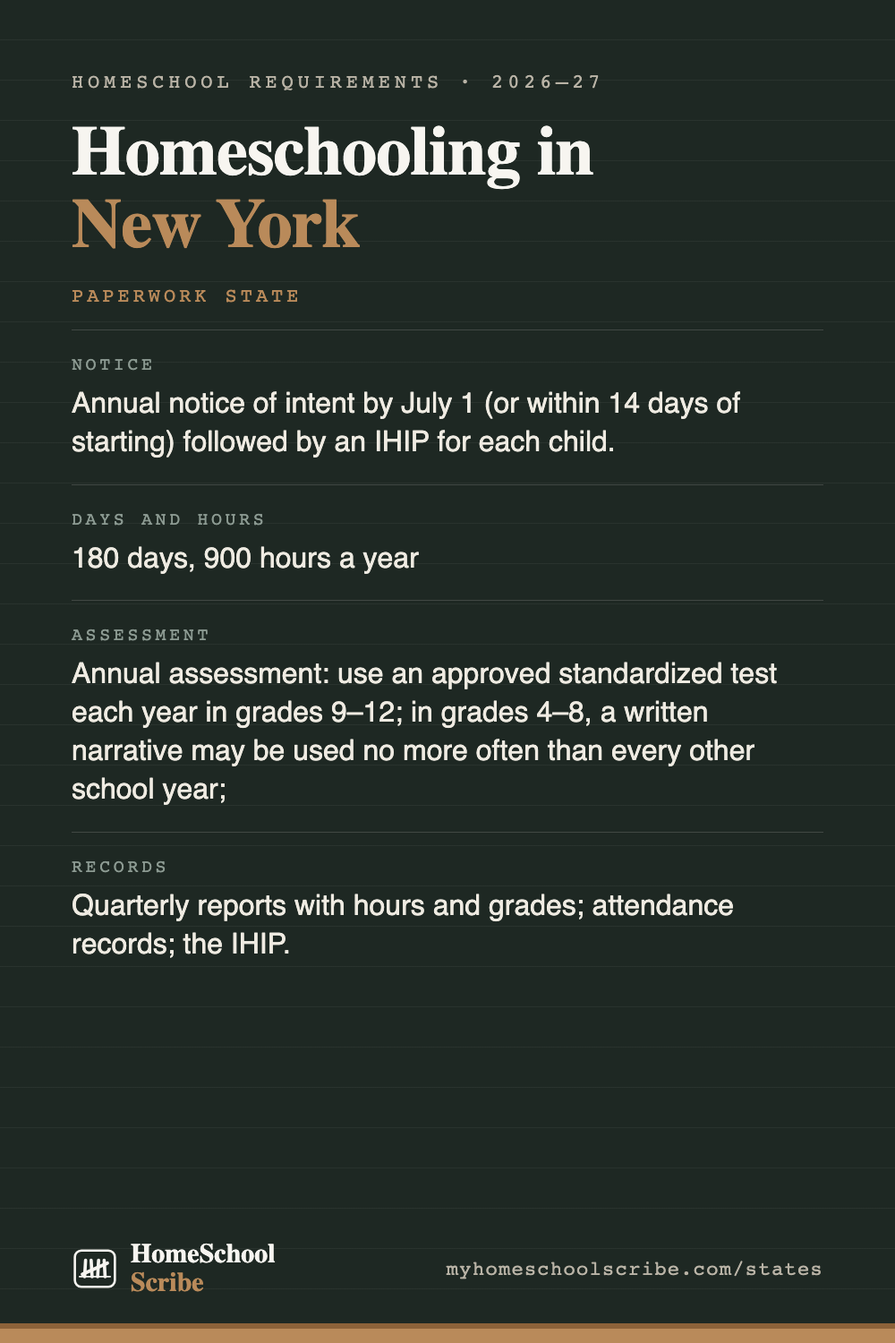
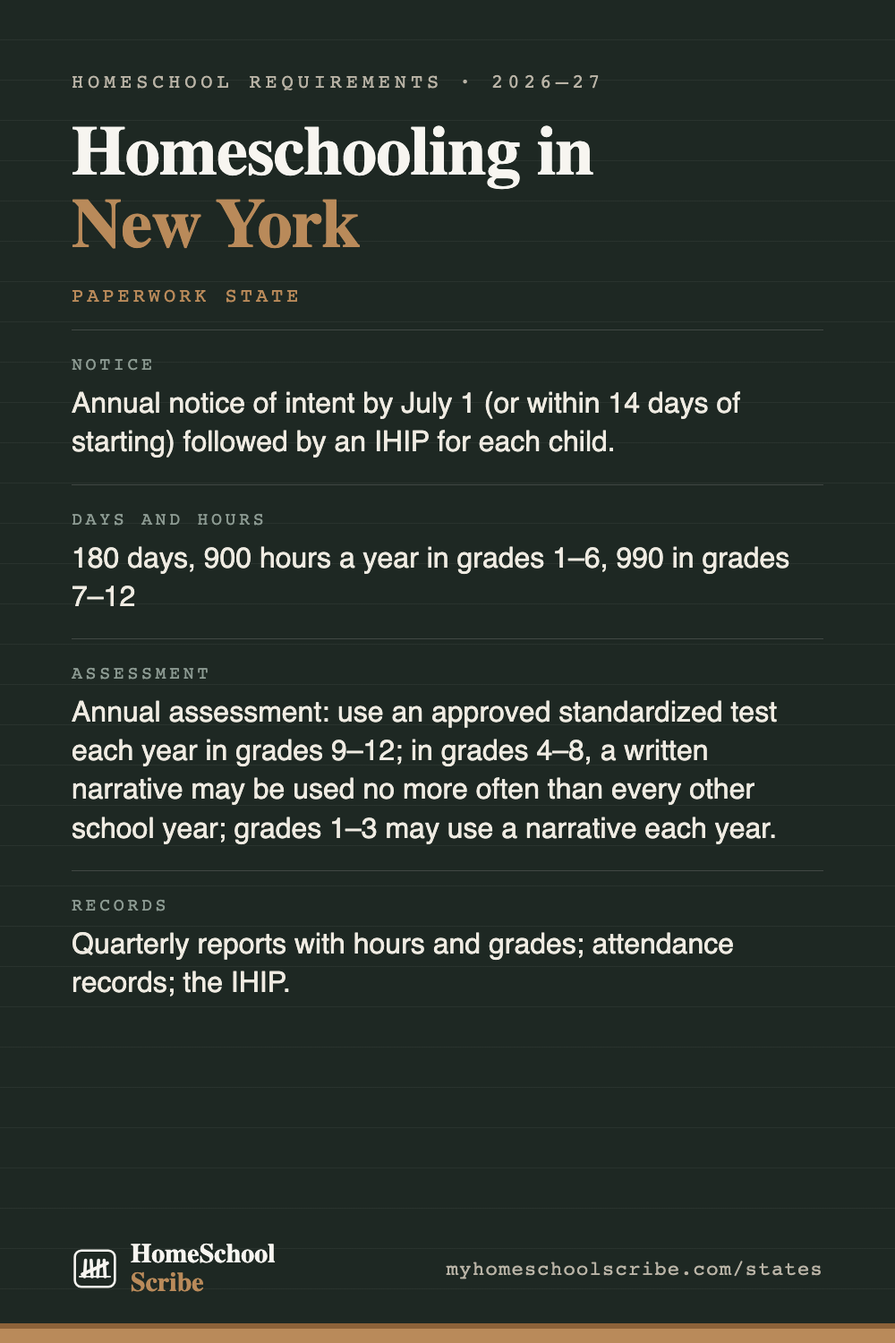
State pins and guides: New York's assessment keeps all three grade bands, and New York and Pennsylvania show hours by grade band

Changed region(s): [[0.062, 0.4293, 0.868, 0.736], [0.465, 0.3987, 0.899, 0.4293]]

diff --git a/states/new-york.html b/states/new-york.html
@@ -22,7 +22,7 @@
 <meta name="p:domain_verify" content="01aed3c2afd3f5c467194a78cc413408"/>
 <meta name="google-site-verification" content="uyakyGaXcTMdCrQNfzRR2PB7ibszg_JJ2bjnA3vRAR0" />
 <link rel="stylesheet" href="/assets/site.css">
-<script type="application/ld+json">{"@context": "https://schema.org", "@type": "FAQPage", "mainEntity": [{"@type": "Question", "name": "Do I have to notify anyone to homeschool in New York?", "acceptedAnswer": {"@type": "Answer", "text": "Annual notice of intent by July 1 (or within 14 days of starting) followed by an IHIP for each child."}}, {"@type": "Question", "name": "How many days or hours does New York require?", "acceptedAnswer": {"@type": "Answer", "text": "180 days, 900 hours a year"}}, {"@type": "Question", "name": "Is testing or an evaluation required in New York?", "acceptedAnswer": {"@type": "Answer", "text": "Annual assessment: use an approved standardized test each year in grades 9\u201312; in grades 4\u20138, a written narrative may be used no more often than every other school year; grades 1\u20133 may use a narrative each year. Choose a New York-certified teacher, home instruction peer review panel, or other person with the superintendent\u2019s consent to write the narrative after interviewing the child and reviewing a portfolio. Home test administration also needs consent to the administrator. A test score is adequate if the composite is above the 33rd percentile or shows one academic year of growth against a test from the prior school year or later. An inadequate score or a narrative finding inadequate progress leads to probation and a plan to address the gaps. See 8 NYCRR 100.10(h)\u2013(i) for approved tests and administration options."}}, {"@type": "Question", "name": "What records should a New York homeschool keep?", "acceptedAnswer": {"@type": "Answer", "text": "Quarterly reports with hours and grades; attendance records; the IHIP."}}]}</script>
+<script type="application/ld+json">{"@context": "https://schema.org", "@type": "FAQPage", "mainEntity": [{"@type": "Question", "name": "Do I have to notify anyone to homeschool in New York?", "acceptedAnswer": {"@type": "Answer", "text": "Annual notice of intent by July 1 (or within 14 days of starting) followed by an IHIP for each child."}}, {"@type": "Question", "name": "How many days or hours does New York require?", "acceptedAnswer": {"@type": "Answer", "text": "180 days, 900 hours a year in grades 1\u20136, 990 in grades 7\u201312"}}, {"@type": "Question", "name": "Is testing or an evaluation required in New York?", "acceptedAnswer": {"@type": "Answer", "text": "Annual assessment: use an approved standardized test each year in grades 9\u201312; in grades 4\u20138, a written narrative may be used no more often than every other school year; grades 1\u20133 may use a narrative each year. Choose a New York-certified teacher, home instruction peer review panel, or other person with the superintendent\u2019s consent to write the narrative after interviewing the child and reviewing a portfolio. Home test administration also needs consent to the administrator. A test score is adequate if the composite is above the 33rd percentile or shows one academic year of growth against a test from the prior school year or later. An inadequate score or a narrative finding inadequate progress leads to probation and a plan to address the gaps. See 8 NYCRR 100.10(h)\u2013(i) for approved tests and administration options."}}, {"@type": "Question", "name": "What records should a New York homeschool keep?", "acceptedAnswer": {"@type": "Answer", "text": "Quarterly reports with hours and grades; attendance records; the IHIP."}}]}</script>
 </head>
 <body><header class="site-header">
   <div class="wrap">
@@ -44,7 +44,7 @@
     <p class="doc-lede">Submit an annual notice and an Individualized Home Instruction Plan (IHIP), file quarterly reports, log 900/990 hours over 180 days, and submit an annual assessment.</p>
 
     <h2>What New York asks</h2>
-    <div class="table-wrap"><table class="req"><tr><th scope="row">Notice</th><td>Annual notice of intent by July 1 (or within 14 days of starting) followed by an IHIP for each child.</td></tr><tr><th scope="row">Days and hours</th><td>180 days, 900 hours a year</td></tr><tr><th scope="row">Subjects</th><td>Language Arts (including reading, writing and spelling in grades 1–6), Math, Science, Social Studies (including geography and U.S. history), Health, Physical Education, Music, Visual Arts, U.S. and New York History and Constitutions (at least once in grades 1–8), Bilingual Education / English as a Second Language (grades 1–6, where needed), Practical Arts (grades 7–8), Library Skills (grades 7–8), Participation in Government (grades 9–12), Economics (grades 9–12), Electives (grades 9–12), Patriotism &amp; Citizenship (K–12), Fire and Arson Prevention &amp; Safety (K–12), Alcohol, Drug &amp; Tobacco Misuse Prevention (K–12), Highway, Traffic &amp; Bicycle Safety (K–12)</td></tr><tr><th scope="row">Assessment</th><td>Annual assessment: use an approved standardized test each year in grades 9–12; in grades 4–8, a written narrative may be used no more often than every other school year; grades 1–3 may use a narrative each year. Choose a New York-certified teacher, home instruction peer review panel, or other person with the superintendent’s consent to write the narrative after interviewing the child and reviewing a portfolio. Home test administration also needs consent to the administrator. A test score is adequate if the composite is above the 33rd percentile or shows one academic year of growth against a test from the prior school year or later. An inadequate score or a narrative finding inadequate progress leads to probation and a plan to address the gaps. See 8 NYCRR 100.10(h)–(i) for approved tests and administration options.</td></tr><tr><th scope="row">Records to keep</th><td>Quarterly reports with hours and grades; attendance records; the IHIP.</td></tr><tr><th scope="row">Parent qualification</th><td>None.</td></tr><tr><th scope="row">Worth knowing</th><td>900 hours for grades 1–6, 990 hours for grades 7–12 (each child’s own number is set at setup). Quarterly reports are due on the schedule set in your IHIP; one IHIP is filed per child, and the annual assessment is filed with the fourth report. Required subject units are totals across each grade band, not annual totals: 8 NYCRR 100.10 sets different lists for grades 1–6, 7–8, and 9–12. Across grades 7–8: 2 units each of English, history and geography, science, and math; 0.5 unit each of art and music; regular PE, health, practical arts, and library skills. Across grades 9–12: English 4; social studies 4 (including American history 1, participation in government 0.5, economics 0.5); math 2; science 2; art and/or music 1; health 0.5; PE 2; electives 3. One unit is 6,480 minutes of instruction. See 8 NYCRR 100.10(e) for the full grade-by-grade requirements.</td></tr></table></div>
+    <div class="table-wrap"><table class="req"><tr><th scope="row">Notice</th><td>Annual notice of intent by July 1 (or within 14 days of starting) followed by an IHIP for each child.</td></tr><tr><th scope="row">Days and hours</th><td>180 days, 900 hours a year in grades 1–6, 990 in grades 7–12</td></tr><tr><th scope="row">Subjects</th><td>Language Arts (including reading, writing and spelling in grades 1–6), Math, Science, Social Studies (including geography and U.S. history), Health, Physical Education, Music, Visual Arts, U.S. and New York History and Constitutions (at least once in grades 1–8), Bilingual Education / English as a Second Language (grades 1–6, where needed), Practical Arts (grades 7–8), Library Skills (grades 7–8), Participation in Government (grades 9–12), Economics (grades 9–12), Electives (grades 9–12), Patriotism &amp; Citizenship (K–12), Fire and Arson Prevention &amp; Safety (K–12), Alcohol, Drug &amp; Tobacco Misuse Prevention (K–12), Highway, Traffic &amp; Bicycle Safety (K–12)</td></tr><tr><th scope="row">Assessment</th><td>Annual assessment: use an approved standardized test each year in grades 9–12; in grades 4–8, a written narrative may be used no more often than every other school year; grades 1–3 may use a narrative each year. Choose a New York-certified teacher, home instruction peer review panel, or other person with the superintendent’s consent to write the narrative after interviewing the child and reviewing a portfolio. Home test administration also needs consent to the administrator. A test score is adequate if the composite is above the 33rd percentile or shows one academic year of growth against a test from the prior school year or later. An inadequate score or a narrative finding inadequate progress leads to probation and a plan to address the gaps. See 8 NYCRR 100.10(h)–(i) for approved tests and administration options.</td></tr><tr><th scope="row">Records to keep</th><td>Quarterly reports with hours and grades; attendance records; the IHIP.</td></tr><tr><th scope="row">Parent qualification</th><td>None.</td></tr><tr><th scope="row">Worth knowing</th><td>900 hours for grades 1–6, 990 hours for grades 7–12 (each child’s own number is set at setup). Quarterly reports are due on the schedule set in your IHIP; one IHIP is filed per child, and the annual assessment is filed with the fourth report. Required subject units are totals across each grade band, not annual totals: 8 NYCRR 100.10 sets different lists for grades 1–6, 7–8, and 9–12. Across grades 7–8: 2 units each of English, history and geography, science, and math; 0.5 unit each of art and music; regular PE, health, practical arts, and library skills. Across grades 9–12: English 4; social studies 4 (including American history 1, participation in government 0.5, economics 0.5); math 2; science 2; art and/or music 1; health 0.5; PE 2; electives 3. One unit is 6,480 minutes of instruction. See 8 NYCRR 100.10(e) for the full grade-by-grade requirements.</td></tr></table></div>
 
     <h2>Deadlines</h2>
     <p>These are the dates the app tracks for New York. Districts vary; the app lets you edit any of them.</p>

diff --git a/states/pennsylvania.html b/states/pennsylvania.html
@@ -22,7 +22,7 @@
 <meta name="p:domain_verify" content="01aed3c2afd3f5c467194a78cc413408"/>
 <meta name="google-site-verification" content="uyakyGaXcTMdCrQNfzRR2PB7ibszg_JJ2bjnA3vRAR0" />
 <link rel="stylesheet" href="/assets/site.css">
-<script type="application/ld+json">{"@context": "https://schema.org", "@type": "FAQPage", "mainEntity": [{"@type": "Question", "name": "Do I have to notify anyone to homeschool in Pennsylvania?", "acceptedAnswer": {"@type": "Answer", "text": "Annual notarized affidavit with objectives and immunization/health records to the local superintendent by August 1 (or before starting)."}}, {"@type": "Question", "name": "How many days or hours does Pennsylvania require?", "acceptedAnswer": {"@type": "Answer", "text": "180 days, 900 hours a year"}}, {"@type": "Question", "name": "Is testing or an evaluation required in Pennsylvania?", "acceptedAnswer": {"@type": "Answer", "text": "Annual evaluation by a certified evaluator (certification submitted to the district); standardized tests in grades 3, 5, and 8."}}, {"@type": "Question", "name": "What records should a Pennsylvania homeschool keep?", "acceptedAnswer": {"@type": "Answer", "text": "Portfolio with a log of reading materials, samples of work, and test results; attendance log."}}]}</script>
+<script type="application/ld+json">{"@context": "https://schema.org", "@type": "FAQPage", "mainEntity": [{"@type": "Question", "name": "Do I have to notify anyone to homeschool in Pennsylvania?", "acceptedAnswer": {"@type": "Answer", "text": "Annual notarized affidavit with objectives and immunization/health records to the local superintendent by August 1 (or before starting)."}}, {"@type": "Question", "name": "How many days or hours does Pennsylvania require?", "acceptedAnswer": {"@type": "Answer", "text": "180 days, 900 hours a year in grades 1\u20136, 990 in grades 7\u201312"}}, {"@type": "Question", "name": "Is testing or an evaluation required in Pennsylvania?", "acceptedAnswer": {"@type": "Answer", "text": "Annual evaluation by a certified evaluator (certification submitted to the district); standardized tests in grades 3, 5, and 8."}}, {"@type": "Question", "name": "What records should a Pennsylvania homeschool keep?", "acceptedAnswer": {"@type": "Answer", "text": "Portfolio with a log of reading materials, samples of work, and test results; attendance log."}}]}</script>
 </head>
 <body><header class="site-header">
   <div class="wrap">
@@ -44,7 +44,7 @@
     <p class="doc-lede">File a notarized affidavit each year, log 180 days or 900/990 hours, keep a portfolio, test in grades 3, 5, and 8, and have an approved evaluator certify progress annually.</p>
 
     <h2>What Pennsylvania asks</h2>
-    <div class="table-wrap"><table class="req"><tr><th scope="row">Notice</th><td>Annual notarized affidavit with objectives and immunization/health records to the local superintendent by August 1 (or before starting).</td></tr><tr><th scope="row">Days and hours</th><td>180 days, 900 hours a year</td></tr><tr><th scope="row">Subjects</th><td>English, Math, Science, Geography, Civics, History of U.S. &amp; PA, Safety &amp; Fire Prevention, Health &amp; Physiology, Physical Education, Music, Art</td></tr><tr><th scope="row">Assessment</th><td>Annual evaluation by a certified evaluator (certification submitted to the district); standardized tests in grades 3, 5, and 8.</td></tr><tr><th scope="row">Records to keep</th><td>Portfolio with a log of reading materials, samples of work, and test results; attendance log.</td></tr><tr><th scope="row">Parent qualification</th><td>High school diploma or equivalent.</td></tr><tr><th scope="row">Worth knowing</th><td>900 hours for elementary, 990 hours for secondary students.</td></tr></table></div>
+    <div class="table-wrap"><table class="req"><tr><th scope="row">Notice</th><td>Annual notarized affidavit with objectives and immunization/health records to the local superintendent by August 1 (or before starting).</td></tr><tr><th scope="row">Days and hours</th><td>180 days, 900 hours a year in grades 1–6, 990 in grades 7–12</td></tr><tr><th scope="row">Subjects</th><td>English, Math, Science, Geography, Civics, History of U.S. &amp; PA, Safety &amp; Fire Prevention, Health &amp; Physiology, Physical Education, Music, Art</td></tr><tr><th scope="row">Assessment</th><td>Annual evaluation by a certified evaluator (certification submitted to the district); standardized tests in grades 3, 5, and 8.</td></tr><tr><th scope="row">Records to keep</th><td>Portfolio with a log of reading materials, samples of work, and test results; attendance log.</td></tr><tr><th scope="row">Parent qualification</th><td>High school diploma or equivalent.</td></tr><tr><th scope="row">Worth knowing</th><td>900 hours for elementary, 990 hours for secondary students.</td></tr></table></div>
 
     <h2>Deadlines</h2>
     <p>These are the dates the app tracks for Pennsylvania. Districts vary; the app lets you edit any of them.</p>

diff --git a/states/ohio.html b/states/ohio.html
@@ -22,7 +22,7 @@
 <meta name="p:domain_verify" content="01aed3c2afd3f5c467194a78cc413408"/>
 <meta name="google-site-verification" content="uyakyGaXcTMdCrQNfzRR2PB7ibszg_JJ2bjnA3vRAR0" />
 <link rel="stylesheet" href="/assets/site.css">
-<script type="application/ld+json">{"@context": "https://schema.org", "@type": "FAQPage", "mainEntity": [{"@type": "Question", "name": "Do I have to notify anyone to homeschool in Ohio?", "acceptedAnswer": {"@type": "Answer", "text": "Notify the superintendent of your district of residence within five calendar days after starting home education, moving into a new school district, or withdrawing from a public or nonpublic school, and by August 30 each year thereafter."}}, {"@type": "Question", "name": "How many days or hours does Ohio require?", "acceptedAnswer": {"@type": "Answer", "text": "Ohio sets no required number of days or hours."}}, {"@type": "Question", "name": "Is testing or an evaluation required in Ohio?", "acceptedAnswer": {"@type": "Answer", "text": "None required."}}, {"@type": "Question", "name": "What records should a Ohio homeschool keep?", "acceptedAnswer": {"@type": "Answer", "text": "No statutory retention period. Keep your notices and acknowledgment letters. Ohio education department guidance says the final-year acknowledgment should accompany the diploma for college or employment; keep it with the diploma."}}]}</script>
+<script type="application/ld+json">{"@context": "https://schema.org", "@type": "FAQPage", "mainEntity": [{"@type": "Question", "name": "Do I have to notify anyone to homeschool in Ohio?", "acceptedAnswer": {"@type": "Answer", "text": "Notify the superintendent of your district of residence within five calendar days after starting home education, moving into a new school district, or withdrawing from a public or nonpublic school, and by August 30 each year thereafter."}}, {"@type": "Question", "name": "How many days or hours does Ohio require?", "acceptedAnswer": {"@type": "Answer", "text": "There is no set number of days or hours."}}, {"@type": "Question", "name": "Is testing or an evaluation required in Ohio?", "acceptedAnswer": {"@type": "Answer", "text": "None required."}}, {"@type": "Question", "name": "What records should a Ohio homeschool keep?", "acceptedAnswer": {"@type": "Answer", "text": "No statutory retention period. Keep your notices and acknowledgment letters. Ohio education department guidance says the final-year acknowledgment should accompany the diploma for college or employment; keep it with the diploma."}}]}</script>
 </head>
 <body><header class="site-header">
   <div class="wrap">

diff --git a/states/florida.html b/states/florida.html
@@ -22,7 +22,7 @@
 <meta name="p:domain_verify" content="01aed3c2afd3f5c467194a78cc413408"/>
 <meta name="google-site-verification" content="uyakyGaXcTMdCrQNfzRR2PB7ibszg_JJ2bjnA3vRAR0" />
 <link rel="stylesheet" href="/assets/site.css">
-<script type="application/ld+json">{"@context": "https://schema.org", "@type": "FAQPage", "mainEntity": [{"@type": "Question", "name": "Do I have to notify anyone to homeschool in Florida?", "acceptedAnswer": {"@type": "Answer", "text": "Written notice of intent to the county superintendent within 30 days of starting (one time, plus a notice of termination when you stop)."}}, {"@type": "Question", "name": "How many days or hours does Florida require?", "acceptedAnswer": {"@type": "Answer", "text": "Florida sets no required number of days or hours."}}, {"@type": "Question", "name": "Is testing or an evaluation required in Florida?", "acceptedAnswer": {"@type": "Answer", "text": "Annual evaluation submitted to the district: certified-teacher review, standardized test, psychologist evaluation, or other approved method."}}, {"@type": "Question", "name": "What records should a Florida homeschool keep?", "acceptedAnswer": {"@type": "Answer", "text": "Portfolio with a log of educational activities and samples of work, kept for two years and available on 15 days' notice."}}]}</script>
+<script type="application/ld+json">{"@context": "https://schema.org", "@type": "FAQPage", "mainEntity": [{"@type": "Question", "name": "Do I have to notify anyone to homeschool in Florida?", "acceptedAnswer": {"@type": "Answer", "text": "Written notice of intent to the county superintendent within 30 days of starting (one time, plus a notice of termination when you stop)."}}, {"@type": "Question", "name": "How many days or hours does Florida require?", "acceptedAnswer": {"@type": "Answer", "text": "Florida sets no number. HomeSchool Scribe plans against 180 days unless you change it."}}, {"@type": "Question", "name": "Is testing or an evaluation required in Florida?", "acceptedAnswer": {"@type": "Answer", "text": "Annual evaluation submitted to the district: certified-teacher review, standardized test, psychologist evaluation, or other approved method."}}, {"@type": "Question", "name": "What records should a Florida homeschool keep?", "acceptedAnswer": {"@type": "Answer", "text": "Portfolio with a log of educational activities and samples of work, kept for two years and available on 15 days' notice."}}]}</script>
 </head>
 <body><header class="site-header">
   <div class="wrap">

diff --git a/states/north-carolina.html b/states/north-carolina.html
@@ -22,7 +22,7 @@
 <meta name="p:domain_verify" content="01aed3c2afd3f5c467194a78cc413408"/>
 <meta name="google-site-verification" content="uyakyGaXcTMdCrQNfzRR2PB7ibszg_JJ2bjnA3vRAR0" />
 <link rel="stylesheet" href="/assets/site.css">
-<script type="application/ld+json">{"@context": "https://schema.org", "@type": "FAQPage", "mainEntity": [{"@type": "Question", "name": "Do I have to notify anyone to homeschool in North Carolina?", "acceptedAnswer": {"@type": "Answer", "text": "One-time notice of intent to the NC Division of Non-Public Education before starting (parent needs a high school diploma or equivalent)."}}, {"@type": "Question", "name": "How many days or hours does North Carolina require?", "acceptedAnswer": {"@type": "Answer", "text": "North Carolina sets no required number of days or hours."}}, {"@type": "Question", "name": "Is testing or an evaluation required in North Carolina?", "acceptedAnswer": {"@type": "Answer", "text": "Annual nationally standardized achievement test in English grammar, reading, spelling, and math; results kept for one year."}}, {"@type": "Question", "name": "What records should a North Carolina homeschool keep?", "acceptedAnswer": {"@type": "Answer", "text": "Attendance records, immunization records, and test results."}}]}</script>
+<script type="application/ld+json">{"@context": "https://schema.org", "@type": "FAQPage", "mainEntity": [{"@type": "Question", "name": "Do I have to notify anyone to homeschool in North Carolina?", "acceptedAnswer": {"@type": "Answer", "text": "One-time notice of intent to the NC Division of Non-Public Education before starting (parent needs a high school diploma or equivalent)."}}, {"@type": "Question", "name": "How many days or hours does North Carolina require?", "acceptedAnswer": {"@type": "Answer", "text": "North Carolina sets no number. HomeSchool Scribe plans against 180 days unless you change it."}}, {"@type": "Question", "name": "Is testing or an evaluation required in North Carolina?", "acceptedAnswer": {"@type": "Answer", "text": "Annual nationally standardized achievement test in English grammar, reading, spelling, and math; results kept for one year."}}, {"@type": "Question", "name": "What records should a North Carolina homeschool keep?", "acceptedAnswer": {"@type": "Answer", "text": "Attendance records, immunization records, and test results."}}]}</script>
 </head>
 <body><header class="site-header">
   <div class="wrap">

diff --git a/states/new-hampshire.html b/states/new-hampshire.html
@@ -22,7 +22,7 @@
 <meta name="p:domain_verify" content="01aed3c2afd3f5c467194a78cc413408"/>
 <meta name="google-site-verification" content="uyakyGaXcTMdCrQNfzRR2PB7ibszg_JJ2bjnA3vRAR0" />
 <link rel="stylesheet" href="/assets/site.css">
-<script type="application/ld+json">{"@context": "https://schema.org", "@type": "FAQPage", "mainEntity": [{"@type": "Question", "name": "Do I have to notify anyone to homeschool in New Hampshire?", "acceptedAnswer": {"@type": "Answer", "text": "None in most cases. A declaration of home education is needed only when withdrawing a child from a public school, or to access public school programmes under RSA 193:1-c."}}, {"@type": "Question", "name": "How many days or hours does New Hampshire require?", "acceptedAnswer": {"@type": "Answer", "text": "New Hampshire sets no required number of days or hours."}}, {"@type": "Question", "name": "Is testing or an evaluation required in New Hampshire?", "acceptedAnswer": {"@type": "Answer", "text": "None required."}}, {"@type": "Question", "name": "What records should a New Hampshire homeschool keep?", "acceptedAnswer": {"@type": "Answer", "text": "None required. Many families keep a portfolio and a yearly evaluation anyway, as their own account of the year rather than anyone else's."}}]}</script>
+<script type="application/ld+json">{"@context": "https://schema.org", "@type": "FAQPage", "mainEntity": [{"@type": "Question", "name": "Do I have to notify anyone to homeschool in New Hampshire?", "acceptedAnswer": {"@type": "Answer", "text": "None in most cases. A declaration of home education is needed only when withdrawing a child from a public school, or to access public school programmes under RSA 193:1-c."}}, {"@type": "Question", "name": "How many days or hours does New Hampshire require?", "acceptedAnswer": {"@type": "Answer", "text": "New Hampshire sets no number. HomeSchool Scribe plans against 180 days unless you change it."}}, {"@type": "Question", "name": "Is testing or an evaluation required in New Hampshire?", "acceptedAnswer": {"@type": "Answer", "text": "None required."}}, {"@type": "Question", "name": "What records should a New Hampshire homeschool keep?", "acceptedAnswer": {"@type": "Answer", "text": "None required. Many families keep a portfolio and a yearly evaluation anyway, as their own account of the year rather than anyone else's."}}]}</script>
 </head>
 <body><header class="site-header">
   <div class="wrap">

diff --git a/states/district-of-columbia.html b/states/district-of-columbia.html
@@ -22,7 +22,7 @@
 <meta name="p:domain_verify" content="01aed3c2afd3f5c467194a78cc413408"/>
 <meta name="google-site-verification" content="uyakyGaXcTMdCrQNfzRR2PB7ibszg_JJ2bjnA3vRAR0" />
 <link rel="stylesheet" href="/assets/site.css">
-<script type="application/ld+json">{"@context": "https://schema.org", "@type": "FAQPage", "mainEntity": [{"@type": "Question", "name": "Do I have to notify anyone to homeschool in District of Columbia?", "acceptedAnswer": {"@type": "Answer", "text": "Annual notice of intent to the Office of the State Superintendent of Education (by August 15, or 15 days before starting)."}}, {"@type": "Question", "name": "How many days or hours does District of Columbia require?", "acceptedAnswer": {"@type": "Answer", "text": "District of Columbia sets no required number of days or hours."}}, {"@type": "Question", "name": "Is testing or an evaluation required in District of Columbia?", "acceptedAnswer": {"@type": "Answer", "text": "Portfolio may be reviewed by OSSE (typically no more than twice a year)."}}, {"@type": "Question", "name": "What records should a District of Columbia homeschool keep?", "acceptedAnswer": {"@type": "Answer", "text": "Portfolio of work samples and instructional materials."}}]}</script>
+<script type="application/ld+json">{"@context": "https://schema.org", "@type": "FAQPage", "mainEntity": [{"@type": "Question", "name": "Do I have to notify anyone to homeschool in District of Columbia?", "acceptedAnswer": {"@type": "Answer", "text": "Annual notice of intent to the Office of the State Superintendent of Education (by August 15, or 15 days before starting)."}}, {"@type": "Question", "name": "How many days or hours does District of Columbia require?", "acceptedAnswer": {"@type": "Answer", "text": "District of Columbia sets no number. HomeSchool Scribe plans against 180 days unless you change it."}}, {"@type": "Question", "name": "Is testing or an evaluation required in District of Columbia?", "acceptedAnswer": {"@type": "Answer", "text": "Portfolio may be reviewed by OSSE (typically no more than twice a year)."}}, {"@type": "Question", "name": "What records should a District of Columbia homeschool keep?", "acceptedAnswer": {"@type": "Answer", "text": "Portfolio of work samples and instructional materials."}}]}</script>
 </head>
 <body><header class="site-header">
   <div class="wrap">

diff --git a/states/minnesota.html b/states/minnesota.html
@@ -22,7 +22,7 @@
 <meta name="p:domain_verify" content="01aed3c2afd3f5c467194a78cc413408"/>
 <meta name="google-site-verification" content="uyakyGaXcTMdCrQNfzRR2PB7ibszg_JJ2bjnA3vRAR0" />
 <link rel="stylesheet" href="/assets/site.css">
-<script type="application/ld+json">{"@context": "https://schema.org", "@type": "FAQPage", "mainEntity": [{"@type": "Question", "name": "Do I have to notify anyone to homeschool in Minnesota?", "acceptedAnswer": {"@type": "Answer", "text": "Annual letter of intent (full report the first year, short form after) to the local superintendent by October 1."}}, {"@type": "Question", "name": "How many days or hours does Minnesota require?", "acceptedAnswer": {"@type": "Answer", "text": "Minnesota sets no required number of days or hours."}}, {"@type": "Question", "name": "Is testing or an evaluation required in Minnesota?", "acceptedAnswer": {"@type": "Answer", "text": "Annual nationally norm-referenced standardized test; results kept by the parent (not submitted)."}}, {"@type": "Question", "name": "What records should a Minnesota homeschool keep?", "acceptedAnswer": {"@type": "Answer", "text": "Immunization records with the notice; keep test results and instructional materials."}}]}</script>
+<script type="application/ld+json">{"@context": "https://schema.org", "@type": "FAQPage", "mainEntity": [{"@type": "Question", "name": "Do I have to notify anyone to homeschool in Minnesota?", "acceptedAnswer": {"@type": "Answer", "text": "Annual letter of intent (full report the first year, short form after) to the local superintendent by October 1."}}, {"@type": "Question", "name": "How many days or hours does Minnesota require?", "acceptedAnswer": {"@type": "Answer", "text": "Minnesota sets no number. HomeSchool Scribe plans against 180 days unless you change it."}}, {"@type": "Question", "name": "Is testing or an evaluation required in Minnesota?", "acceptedAnswer": {"@type": "Answer", "text": "Annual nationally norm-referenced standardized test; results kept by the parent (not submitted)."}}, {"@type": "Question", "name": "What records should a Minnesota homeschool keep?", "acceptedAnswer": {"@type": "Answer", "text": "Immunization records with the notice; keep test results and instructional materials."}}]}</script>
 </head>
 <body><header class="site-header">
   <div class="wrap">

diff --git a/states/maryland.html b/states/maryland.html
@@ -22,7 +22,7 @@
 <meta name="p:domain_verify" content="01aed3c2afd3f5c467194a78cc413408"/>
 <meta name="google-site-verification" content="uyakyGaXcTMdCrQNfzRR2PB7ibszg_JJ2bjnA3vRAR0" />
 <link rel="stylesheet" href="/assets/site.css">
-<script type="application/ld+json">{"@context": "https://schema.org", "@type": "FAQPage", "mainEntity": [{"@type": "Question", "name": "Do I have to notify anyone to homeschool in Maryland?", "acceptedAnswer": {"@type": "Answer", "text": "Notice of consent form to the local superintendent at least 15 days before starting; re-verified annually."}}, {"@type": "Question", "name": "How many days or hours does Maryland require?", "acceptedAnswer": {"@type": "Answer", "text": "Maryland sets no required number of days or hours."}}, {"@type": "Question", "name": "Is testing or an evaluation required in Maryland?", "acceptedAnswer": {"@type": "Answer", "text": "Portfolio reviews by the county (up to three per year) unless supervised by an approved umbrella program."}}, {"@type": "Question", "name": "What records should a Maryland homeschool keep?", "acceptedAnswer": {"@type": "Answer", "text": "Portfolio of instructional materials, reading lists, and samples of work."}}]}</script>
+<script type="application/ld+json">{"@context": "https://schema.org", "@type": "FAQPage", "mainEntity": [{"@type": "Question", "name": "Do I have to notify anyone to homeschool in Maryland?", "acceptedAnswer": {"@type": "Answer", "text": "Notice of consent form to the local superintendent at least 15 days before starting; re-verified annually."}}, {"@type": "Question", "name": "How many days or hours does Maryland require?", "acceptedAnswer": {"@type": "Answer", "text": "Maryland sets no number. HomeSchool Scribe plans against 180 days unless you change it."}}, {"@type": "Question", "name": "Is testing or an evaluation required in Maryland?", "acceptedAnswer": {"@type": "Answer", "text": "Portfolio reviews by the county (up to three per year) unless supervised by an approved umbrella program."}}, {"@type": "Question", "name": "What records should a Maryland homeschool keep?", "acceptedAnswer": {"@type": "Answer", "text": "Portfolio of instructional materials, reading lists, and samples of work."}}]}</script>
 </head>
 <body><header class="site-header">
   <div class="wrap">

diff --git a/states/west-virginia.html b/states/west-virginia.html
@@ -22,7 +22,7 @@
 <meta name="p:domain_verify" content="01aed3c2afd3f5c467194a78cc413408"/>
 <meta name="google-site-verification" content="uyakyGaXcTMdCrQNfzRR2PB7ibszg_JJ2bjnA3vRAR0" />
 <link rel="stylesheet" href="/assets/site.css">
-<script type="application/ld+json">{"@context": "https://schema.org", "@type": "FAQPage", "mainEntity": [{"@type": "Question", "name": "Do I have to notify anyone to homeschool in West Virginia?", "acceptedAnswer": {"@type": "Answer", "text": "One-time notice of intent to the county superintendent (plus a new notice if you move)."}}, {"@type": "Question", "name": "How many days or hours does West Virginia require?", "acceptedAnswer": {"@type": "Answer", "text": "West Virginia sets no required number of days or hours."}}, {"@type": "Question", "name": "Is testing or an evaluation required in West Virginia?", "acceptedAnswer": {"@type": "Answer", "text": "Annual assessment (standardized test, portfolio review, or alternative); results submitted in grades 3, 5, 8, and 11."}}, {"@type": "Question", "name": "What records should a West Virginia homeschool keep?", "acceptedAnswer": {"@type": "Answer", "text": "Assessment results kept for three years."}}]}</script>
+<script type="application/ld+json">{"@context": "https://schema.org", "@type": "FAQPage", "mainEntity": [{"@type": "Question", "name": "Do I have to notify anyone to homeschool in West Virginia?", "acceptedAnswer": {"@type": "Answer", "text": "One-time notice of intent to the county superintendent (plus a new notice if you move)."}}, {"@type": "Question", "name": "How many days or hours does West Virginia require?", "acceptedAnswer": {"@type": "Answer", "text": "West Virginia sets no number. HomeSchool Scribe plans against 180 days unless you change it."}}, {"@type": "Question", "name": "Is testing or an evaluation required in West Virginia?", "acceptedAnswer": {"@type": "Answer", "text": "Annual assessment (standardized test, portfolio review, or alternative); results submitted in grades 3, 5, 8, and 11."}}, {"@type": "Question", "name": "What records should a West Virginia homeschool keep?", "acceptedAnswer": {"@type": "Answer", "text": "Assessment results kept for three years."}}]}</script>
 </head>
 <body><header class="site-header">
   <div class="wrap">

diff --git a/states/hawaii.html b/states/hawaii.html
@@ -22,7 +22,7 @@
 <meta name="p:domain_verify" content="01aed3c2afd3f5c467194a78cc413408"/>
 <meta name="google-site-verification" content="uyakyGaXcTMdCrQNfzRR2PB7ibszg_JJ2bjnA3vRAR0" />
 <link rel="stylesheet" href="/assets/site.css">
-<script type="application/ld+json">{"@context": "https://schema.org", "@type": "FAQPage", "mainEntity": [{"@type": "Question", "name": "Do I have to notify anyone to homeschool in Hawaii?", "acceptedAnswer": {"@type": "Answer", "text": "Notice of intent to the principal of the local public school before starting."}}, {"@type": "Question", "name": "How many days or hours does Hawaii require?", "acceptedAnswer": {"@type": "Answer", "text": "Hawaii sets no required number of days or hours."}}, {"@type": "Question", "name": "Is testing or an evaluation required in Hawaii?", "acceptedAnswer": {"@type": "Answer", "text": "Annual progress report to the principal; standardized test scores required in grades 3, 5, 8, and 10 (alternatives allowed)."}}, {"@type": "Question", "name": "What records should a Hawaii homeschool keep?", "acceptedAnswer": {"@type": "Answer", "text": "Curriculum description and a record of the child's progress."}}]}</script>
+<script type="application/ld+json">{"@context": "https://schema.org", "@type": "FAQPage", "mainEntity": [{"@type": "Question", "name": "Do I have to notify anyone to homeschool in Hawaii?", "acceptedAnswer": {"@type": "Answer", "text": "Notice of intent to the principal of the local public school before starting."}}, {"@type": "Question", "name": "How many days or hours does Hawaii require?", "acceptedAnswer": {"@type": "Answer", "text": "Hawaii sets no number. HomeSchool Scribe plans against 180 days unless you change it."}}, {"@type": "Question", "name": "Is testing or an evaluation required in Hawaii?", "acceptedAnswer": {"@type": "Answer", "text": "Annual progress report to the principal; standardized test scores required in grades 3, 5, 8, and 10 (alternatives allowed)."}}, {"@type": "Question", "name": "What records should a Hawaii homeschool keep?", "acceptedAnswer": {"@type": "Answer", "text": "Curriculum description and a record of the child's progress."}}]}</script>
 </head>
 <body><header class="site-header">
   <div class="wrap">

diff --git a/states/virginia.html b/states/virginia.html
@@ -22,7 +22,7 @@
 <meta name="p:domain_verify" content="01aed3c2afd3f5c467194a78cc413408"/>
 <meta name="google-site-verification" content="uyakyGaXcTMdCrQNfzRR2PB7ibszg_JJ2bjnA3vRAR0" />
 <link rel="stylesheet" href="/assets/site.css">
-<script type="application/ld+json">{"@context": "https://schema.org", "@type": "FAQPage", "mainEntity": [{"@type": "Question", "name": "Do I have to notify anyone to homeschool in Virginia?", "acceptedAnswer": {"@type": "Answer", "text": "Annual notice of intent to the local superintendent by August 15 (or as soon as practicable)."}}, {"@type": "Question", "name": "How many days or hours does Virginia require?", "acceptedAnswer": {"@type": "Answer", "text": "Virginia sets no required number of days or hours."}}, {"@type": "Question", "name": "Is testing or an evaluation required in Virginia?", "acceptedAnswer": {"@type": "Answer", "text": "Evidence of progress by August 1: standardized test (composite at or above the 23rd percentile) or an evaluation letter."}}, {"@type": "Question", "name": "What records should a Virginia homeschool keep?", "acceptedAnswer": {"@type": "Answer", "text": "Test results or evaluation letters."}}]}</script>
+<script type="application/ld+json">{"@context": "https://schema.org", "@type": "FAQPage", "mainEntity": [{"@type": "Question", "name": "Do I have to notify anyone to homeschool in Virginia?", "acceptedAnswer": {"@type": "Answer", "text": "Annual notice of intent to the local superintendent by August 15 (or as soon as practicable)."}}, {"@type": "Question", "name": "How many days or hours does Virginia require?", "acceptedAnswer": {"@type": "Answer", "text": "Virginia sets no number. HomeSchool Scribe plans against 180 days unless you change it."}}, {"@type": "Question", "name": "Is testing or an evaluation required in Virginia?", "acceptedAnswer": {"@type": "Answer", "text": "Evidence of progress by August 1: standardized test (composite at or above the 23rd percentile) or an evaluation letter."}}, {"@type": "Question", "name": "What records should a Virginia homeschool keep?", "acceptedAnswer": {"@type": "Answer", "text": "Test results or evaluation letters."}}]}</script>
 </head>
 <body><header class="site-header">
   <div class="wrap">
